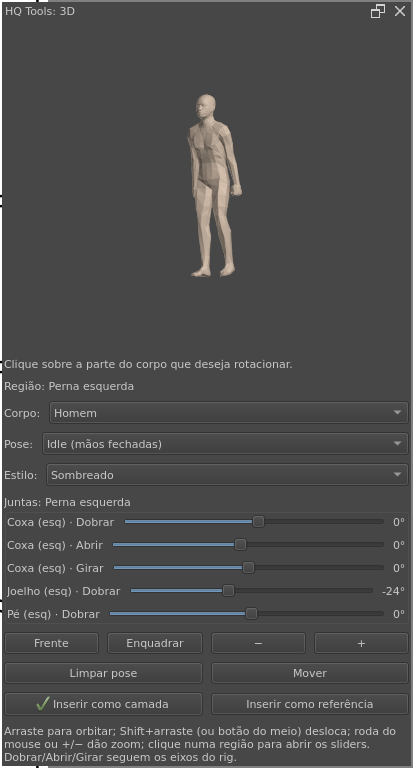
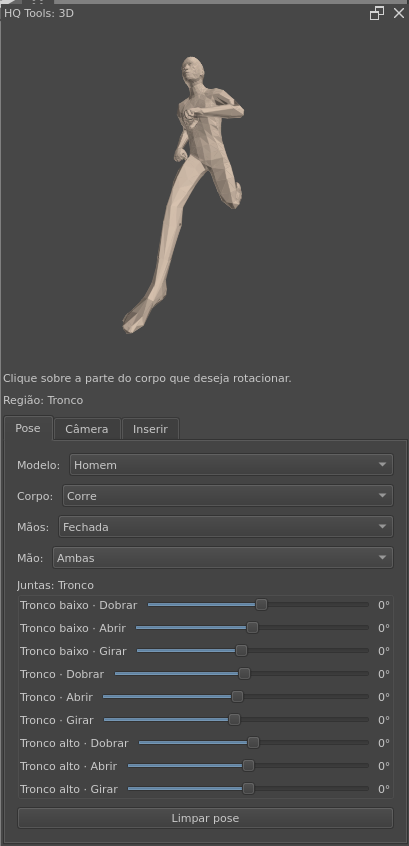
docs: screenshots novos (3D em abas e hub+3D no Krita) nos READMEs

diff --git a/README.md b/README.md
@@ -39,11 +39,11 @@ Os quatro documentos originais de contexto do projeto estão em
 
 | Visualizador 3D | Hub |
 |---|---|
-| ![Docker 3D com o manequim e os controles de corpo, pose, estilo e juntas](Screenshots/07-3d.png) | ![Docker Hub com os botões que abrem e fecham os módulos do plugin](Screenshots/10-hub.png) |
+| ![Docker 3D com abas Pose, Câmera e Inserir, manequim em corrida e os sliders das juntas](Screenshots/07-3d.png) | ![Docker Hub com os botões que abrem e fecham os módulos do plugin](Screenshots/10-hub.png) |
 
-| Biblioteca de perspectivas |
-|---|
-| ![Docker de perspectiva com a galeria de malhas, a prévia ampliada e os botões de inserir na seleção](Screenshots/11-perspectiva.png) |
+| Biblioteca de perspectivas | Hub e 3D no Krita |
+|---|---|
+| ![Docker de perspectiva com a galeria de malhas, a prévia ampliada e os botões de inserir na seleção](Screenshots/11-perspectiva.png) | ![Krita com o hub e o docker 3D abertos e o manequim já inserido em uma página](Screenshots/12-hub-e-3d.png) |
 
 ## Módulos
 

diff --git a/README.en.md b/README.en.md
@@ -40,11 +40,11 @@ The four original context documents of the project are in `docs/contexto/`
 
 | 3D viewer | Hub |
 |---|---|
-| ![3D docker with the mannequin and body, pose, style and joint controls](Screenshots/07-3d.png) | ![Hub docker with the buttons that open and close the plugin modules](Screenshots/10-hub.png) |
+| ![3D docker with the Pose, Camera and Insert tabs, a running mannequin and the joint sliders](Screenshots/07-3d.png) | ![Hub docker with the buttons that open and close the plugin modules](Screenshots/10-hub.png) |
 
-| Perspective library |
-|---|
-| ![Perspective docker with the grid gallery, the enlarged preview and the insert-into-selection buttons](Screenshots/11-perspectiva.png) |
+| Perspective library | Hub and 3D in Krita |
+|---|---|
+| ![Perspective docker with the grid gallery, the enlarged preview and the insert-into-selection buttons](Screenshots/11-perspectiva.png) | ![Krita with the hub and the 3D docker open and the mannequin already inserted into a page](Screenshots/12-hub-e-3d.png) |
 
 ## Modules
 
